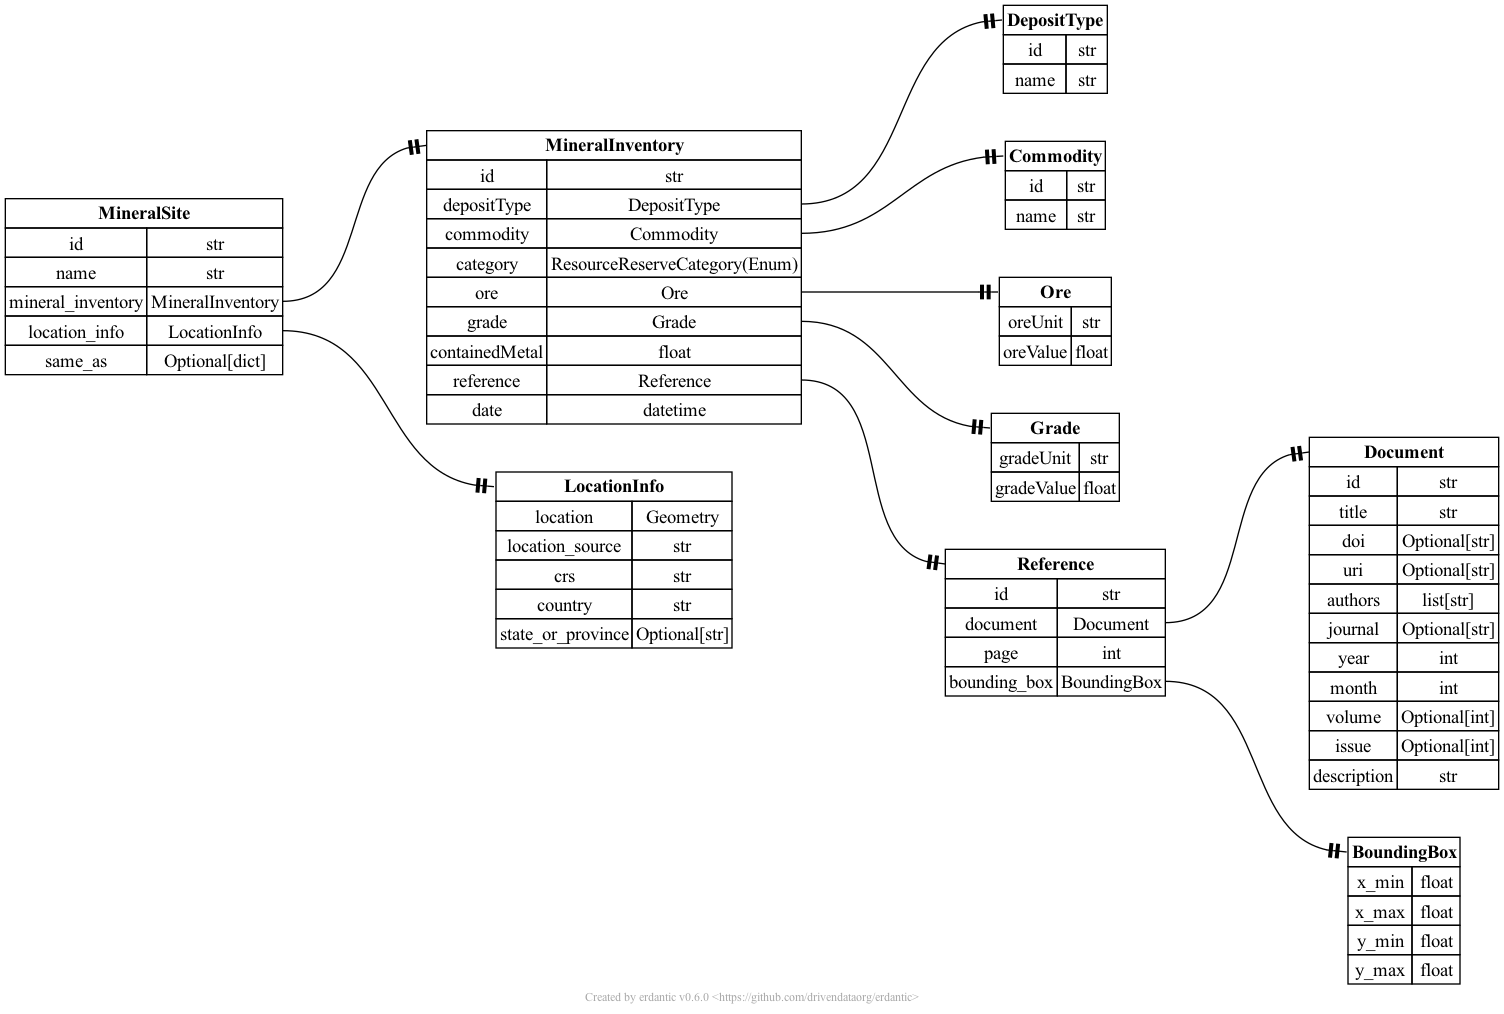
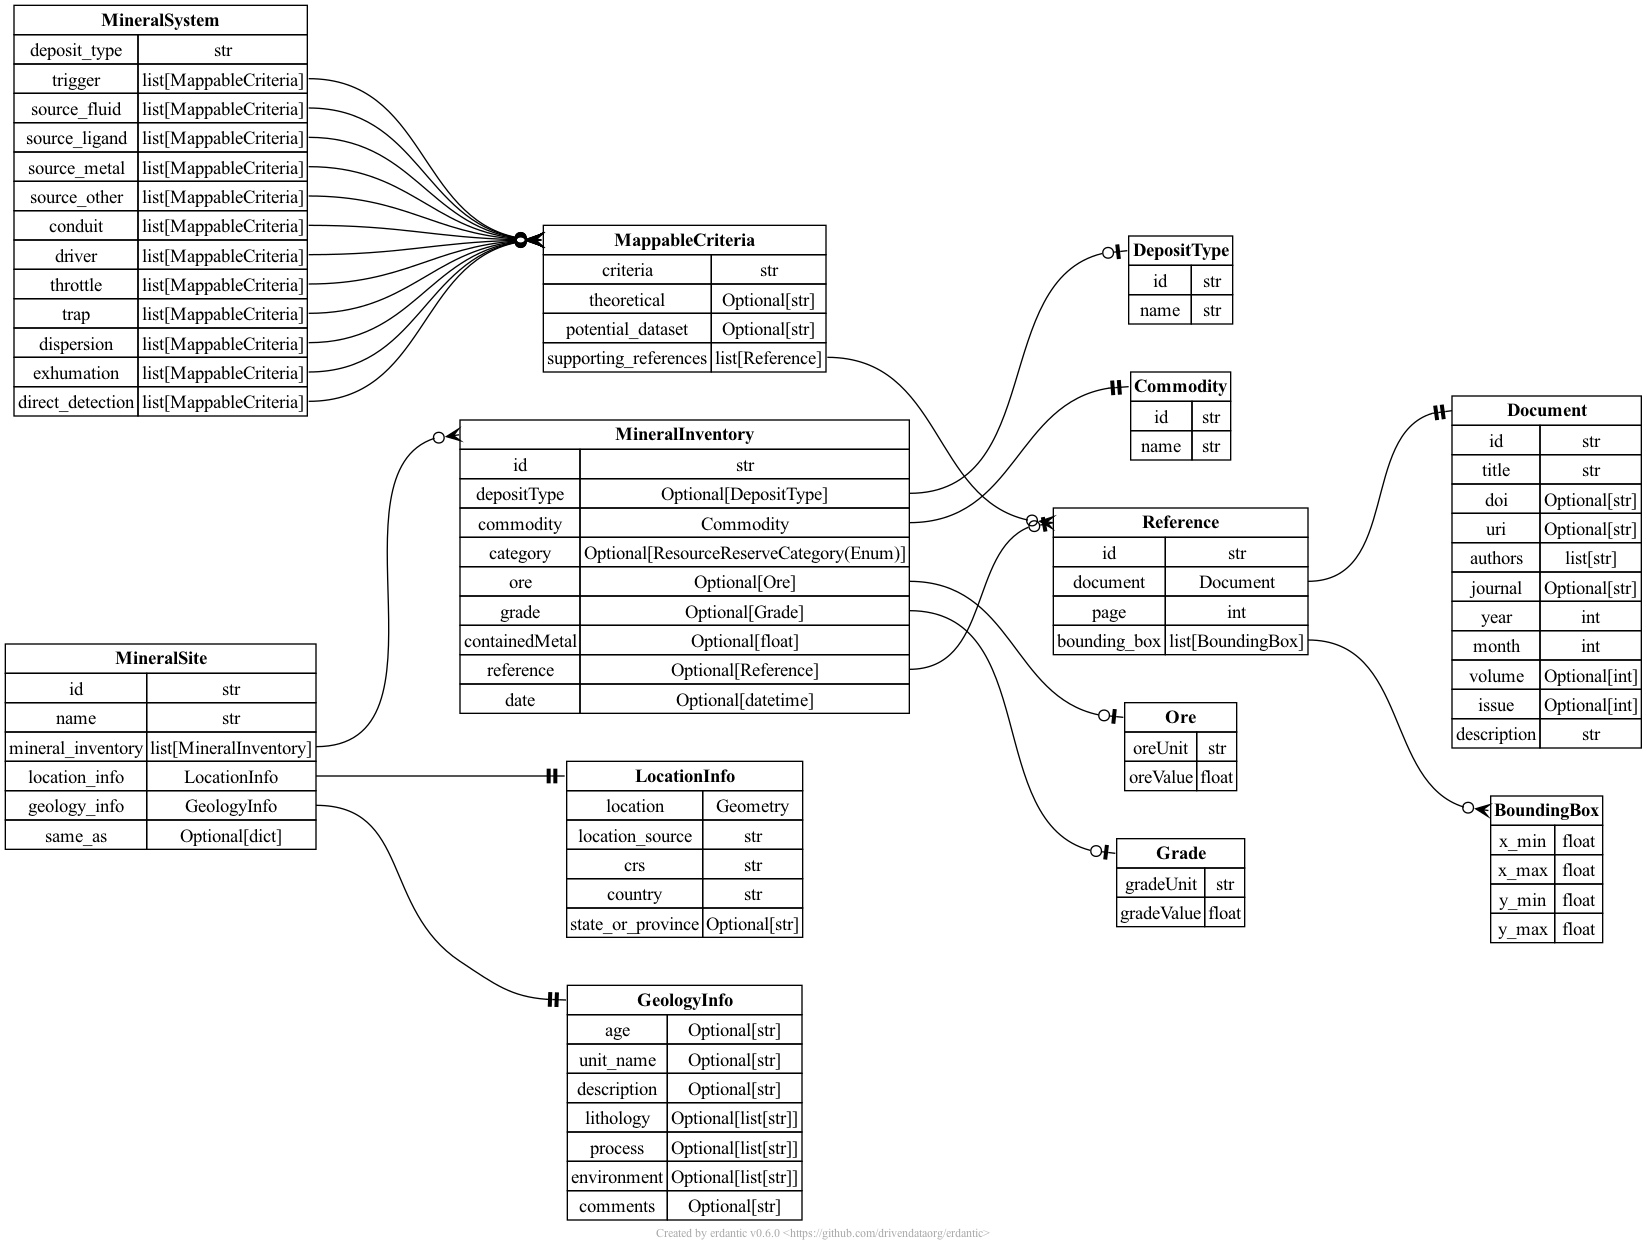
Add mineral system and mappable criteria

diff --git a/ta2/final-output.py b/ta2/final-output.py
@@ -23,6 +23,14 @@ class ResourceReserveCategory(Enum):
     EXTRACTED = "extracted"
     CUMULATIVE_EXTRACTED = "cumulative extracted"
 
+class GeologyInfo(BaseModel):
+    age: Optional[str] = Field(description = "Age of the geologic unit or event")
+    unit_name: Optional[str] = Field(description = "Name of the geologic unit")
+    description: Optional[str]
+    lithology: Optional[list[str]]
+    process: Optional[list[str]]
+    environment: Optional[list[str]]
+    comments: Optional[str]
 
 class Ore(BaseModel):
     oreUnit: str = Field( description="The unit in which ore quantity is measured, eg, metric tonnes")
@@ -54,11 +62,33 @@ class Document(BaseModel):
 
 
 
+
 class Reference(BaseModel):
     id: str
     document: Document
     page: int
-    bounding_box: BoundingBox = Field(description="coordinates of the document where reference is found")
+    bounding_box: list[BoundingBox] = Field(description="coordinates of the document where reference is found")
+
+class MappableCriteria(BaseModel):
+    criteria: str
+    theoretical: Optional[str]
+    potential_dataset: Optional[str]
+    supporting_references: list[Reference]
+
+class MineralSystem(BaseModel):
+    deposit_type: str
+    trigger: list[MappableCriteria]
+    source_fluid: list[MappableCriteria]
+    source_ligand: list[MappableCriteria]
+    source_metal: list[MappableCriteria]
+    source_other: list[MappableCriteria]
+    conduit: list[MappableCriteria]
+    driver: list[MappableCriteria]
+    throttle: list[MappableCriteria]
+    trap: list[MappableCriteria]
+    dispersion: list[MappableCriteria]
+    exhumation: list[MappableCriteria]
+    direct_detection: list[MappableCriteria]
 
 class Commodity(BaseModel):
     id: str
@@ -70,14 +100,14 @@ class Grade(BaseModel):
 
 class MineralInventory(BaseModel):
     id: str
-    depositType: DepositType = Field( description="The deposit type of an inventory item")
+    depositType: Optional[DepositType] = Field( description="The deposit type of an inventory item")
     commodity: Commodity = Field( description="The commodity of an inventory item")
-    category: ResourceReserveCategory = Field( description="The category of an inventory item")
-    ore: Ore = Field( description="The ore of an inventory item")
-    grade: Grade = Field( description="The grade of an inventory item")
-    containedMetal: float = Field( description="The quantity of a contained metal in an inventory item")
-    reference: Reference = Field( description="The reference of an inventory item")
-    date: datetime = Field(description="When in the point of time mineral inventory valid")
+    category: Optional[ResourceReserveCategory] = Field( description="The category of an inventory item")
+    ore: Optional[Ore] = Field( description="The ore of an inventory item")
+    grade: Optional[Grade] = Field( description="The grade of an inventory item")
+    containedMetal: Optional[float] = Field( description="The quantity of a contained metal in an inventory item")
+    reference: Optional[Reference] = Field( description="The reference of an inventory item")
+    date: Optional[datetime] = Field(description="When in the point of time mineral inventory valid")
 
 
 
@@ -95,18 +125,16 @@ class LocationInfo(BaseModel):
 class MineralSite(BaseModel):
     id: str
     name: str = Field(description = "Name of the mine, e.g., Tungsten Jim")
-
-
-    mineral_inventory: MineralInventory
+    mineral_inventory: list[MineralInventory]
     location_info: LocationInfo
-
+    geology_info: GeologyInfo
     same_as: Optional[dict] = Field(
         description='Dictionary that stores the IDs point to other databases: e.g.: {"MRDS" : [{"dep_id" : "10289747","mrds_id" : "W018008",    "altername_or_previous_names": "Thompson Creek Tungsten Mine, Tungsten Jim Mine"    },    {"dep_id": "10022920",    "mrds_id":"FS00436",    "record_type":"Site"}  ],  "USMIN" : [  {"ftr_id":"Mf00576",  "site_id":"ID00055",  "ftr_name":"Tungsten Jim"},  {"ftr_id":"Mo00569",  "site_id":"ID00055"  }  ]}'
     )
     
-diagram2 = erd.create(MineralSite)
-
-diagram2.draw("final-output.png")
+# diagram2 = erd.create(MineralSite)
+#
+# diagram2.draw("final-output.png")
 
 # Schemas can conform to other ones by inheriting from them or by declaring conformance
 # with the `conforms_to` attribute. This is useful for schemas that are not directly loaded
@@ -114,7 +142,7 @@ diagram2.draw("final-output.png")
 
 
 
-graph = erd.create(MineralSite)
+graph = erd.create(MineralSystem, MineralSite)
 
 name = "final-output"
 # Easy one-liner

diff --git a/ta2/final-output.md b/ta2/final-output.md
@@ -4,8 +4,10 @@
 
 - **`id`** *(string)*
 - **`name`** *(string)*: Name of the mine, e.g., Tungsten Jim.
-- **`mineral_inventory`**: Refer to *[MineralInventory](#MineralInventory)*.
+- **`mineral_inventory`** *(array)*
+  - **Items**: Refer to *[MineralInventory](#MineralInventory)*.
 - **`location_info`**: Refer to *[LocationInfo](#LocationInfo)*.
+- **`geology_info`**: Refer to *[GeologyInfo](#GeologyInfo)*.
 - **`same_as`**: Dictionary that stores the IDs point to other databases: e.g.: {"MRDS" : [{"dep_id" : "10289747","mrds_id" : "W018008",    "altername_or_previous_names": "Thompson Creek Tungsten Mine, Tungsten Jim Mine"    },    {"dep_id": "10022920",    "mrds_id":"FS00436",    "record_type":"Site"}  ],  "USMIN" : [  {"ftr_id":"Mf00576",  "site_id":"ID00055",  "ftr_name":"Tungsten Jim"},  {"ftr_id":"Mo00569",  "site_id":"ID00055"  }  ]}.
   - **Any of**
     - *object*
@@ -66,6 +68,42 @@
     - *null*
 - **`description`** *(string)*: Description of the document.
 
+## GeologyInfo
+
+### Properties
+
+- **`age`**: Age of the geologic unit or event.
+  - **Any of**
+    - *string*
+    - *null*
+- **`unit_name`**: Name of the geologic unit.
+  - **Any of**
+    - *string*
+    - *null*
+- **`description`**
+  - **Any of**
+    - *string*
+    - *null*
+- **`lithology`**
+  - **Any of**
+    - *array*
+      - **Items** *(string)*
+    - *null*
+- **`process`**
+  - **Any of**
+    - *array*
+      - **Items** *(string)*
+    - *null*
+- **`environment`**
+  - **Any of**
+    - *array*
+      - **Items** *(string)*
+    - *null*
+- **`comments`**
+  - **Any of**
+    - *string*
+    - *null*
+
 ## Grade
 
 ### Properties
@@ -86,31 +124,88 @@
     - *string*
     - *null*
 
+## MappableCriteria
+
+### Properties
+
+- **`criteria`** *(string)*
+- **`theoretical`**
+  - **Any of**
+    - *string*
+    - *null*
+- **`potential_dataset`**
+  - **Any of**
+    - *string*
+    - *null*
+- **`supporting_references`** *(array)*
+  - **Items**: Refer to *[Reference](#Reference)*.
+
 ## MineralInventory
 
 ### Properties
 
 - **`id`** *(string)*
 - **`depositType`**: The deposit type of an inventory item.
-  - **All of**
+  - **Any of**
     - : Refer to *[DepositType](#DepositType)*.
+    - *null*
 - **`commodity`**: The commodity of an inventory item.
   - **All of**
     - : Refer to *[Commodity](#Commodity)*.
 - **`category`**: The category of an inventory item.
-  - **All of**
+  - **Any of**
     - : Refer to *[ResourceReserveCategory](#ResourceReserveCategory)*.
+    - *null*
 - **`ore`**: The ore of an inventory item.
-  - **All of**
+  - **Any of**
     - : Refer to *[Ore](#Ore)*.
+    - *null*
 - **`grade`**: The grade of an inventory item.
-  - **All of**
+  - **Any of**
     - : Refer to *[Grade](#Grade)*.
-- **`containedMetal`** *(number)*: The quantity of a contained metal in an inventory item.
+    - *null*
+- **`containedMetal`**: The quantity of a contained metal in an inventory item.
+  - **Any of**
+    - *number*
+    - *null*
 - **`reference`**: The reference of an inventory item.
-  - **All of**
+  - **Any of**
     - : Refer to *[Reference](#Reference)*.
-- **`date`** *(string, format: date-time)*: When in the point of time mineral inventory valid.
+    - *null*
+- **`date`**: When in the point of time mineral inventory valid.
+  - **Any of**
+    - *string, format: date-time*
+    - *null*
+
+## MineralSystem
+
+### Properties
+
+- **`deposit_type`** *(string)*
+- **`trigger`** *(array)*
+  - **Items**: Refer to *[MappableCriteria](#MappableCriteria)*.
+- **`source_fluid`** *(array)*
+  - **Items**: Refer to *[MappableCriteria](#MappableCriteria)*.
+- **`source_ligand`** *(array)*
+  - **Items**: Refer to *[MappableCriteria](#MappableCriteria)*.
+- **`source_metal`** *(array)*
+  - **Items**: Refer to *[MappableCriteria](#MappableCriteria)*.
+- **`source_other`** *(array)*
+  - **Items**: Refer to *[MappableCriteria](#MappableCriteria)*.
+- **`conduit`** *(array)*
+  - **Items**: Refer to *[MappableCriteria](#MappableCriteria)*.
+- **`driver`** *(array)*
+  - **Items**: Refer to *[MappableCriteria](#MappableCriteria)*.
+- **`throttle`** *(array)*
+  - **Items**: Refer to *[MappableCriteria](#MappableCriteria)*.
+- **`trap`** *(array)*
+  - **Items**: Refer to *[MappableCriteria](#MappableCriteria)*.
+- **`dispersion`** *(array)*
+  - **Items**: Refer to *[MappableCriteria](#MappableCriteria)*.
+- **`exhumation`** *(array)*
+  - **Items**: Refer to *[MappableCriteria](#MappableCriteria)*.
+- **`direct_detection`** *(array)*
+  - **Items**: Refer to *[MappableCriteria](#MappableCriteria)*.
 
 ## Ore
 
@@ -126,7 +221,6 @@
 - **`id`** *(string)*
 - **`document`**: Refer to *[Document](#Document)*.
 - **`page`** *(integer)*
-- **`bounding_box`**: coordinates of the document where reference is found.
-  - **All of**
-    - : Refer to *[BoundingBox](#BoundingBox)*.
+- **`bounding_box`** *(array)*: coordinates of the document where reference is found.
+  - **Items**: Refer to *[BoundingBox](#BoundingBox)*.
 
